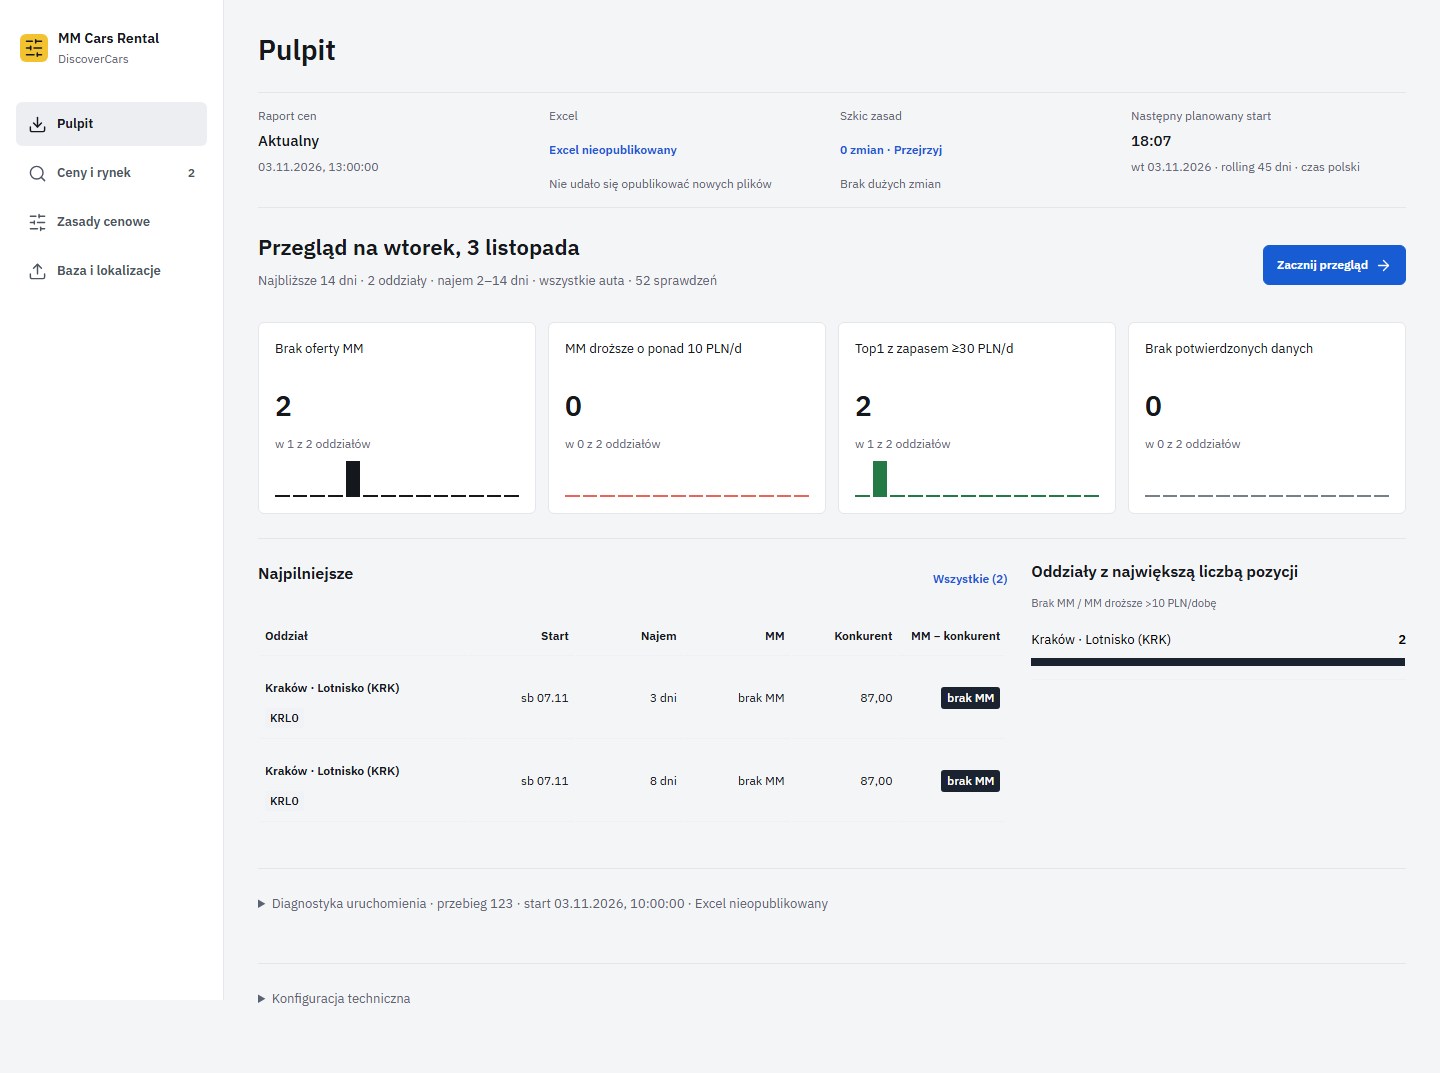
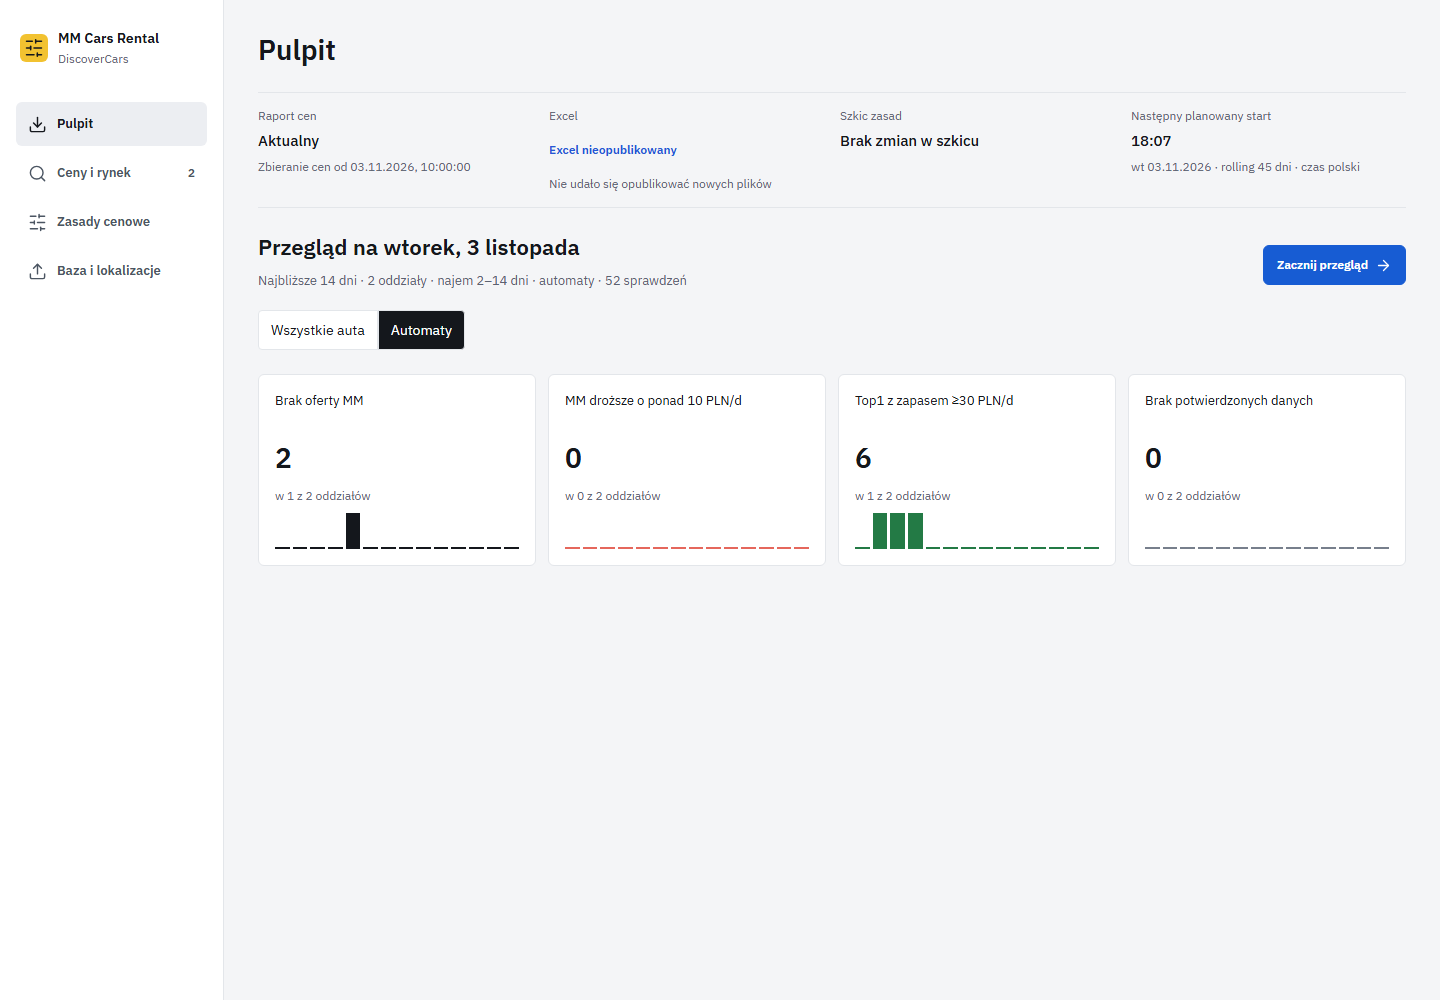
Simplify dashboard, default to automatics and label file timestamps

diff --git a/rules-panel/src/Dashboard.jsx b/rules-panel/src/Dashboard.jsx
@@ -1,41 +1,39 @@
-import React,{useMemo} from 'react';
+import React,{useMemo,useState} from 'react';
 import {ArrowRight,Download,RotateCcw} from 'lucide-react';
 import {timestamp} from './display.mjs';
 import {weekdayDate} from './visual-format.mjs';
-import {money,warsawToday} from './market-model.mjs';
-import {locationLabel,countLabel} from './operations.mjs';
+import {warsawToday} from './market-model.mjs';
+import {countLabel} from './operations.mjs';
 import {nextSchedule} from './change-review.mjs';
 import {dashboardOverview} from './dashboard-model.mjs';
-import {PriceBadge} from './PriceBadge.jsx';
+
 
 export function Dashboard({workspace,onMarket,market,changeCount=0,largeCount=0,onReview,onDiagnostics}) {
  const {report,excel,links={},executions}=workspace?.status??{};
  const {data,busy,error,load}=market;
- const today=warsawToday(),overview=useMemo(()=>dashboardOverview(data,today),[data,today]);
+ const [transmission,setTransmission]=useState('automatic');
+ const today=warsawToday(),overview=useMemo(()=>dashboardOverview(data,today,transmission),[data,today,transmission]);
  const old=report&&Date.now()-Date.parse(report.sourceStartedAt)>86400000;
  const next=nextSchedule(__SCRAPER_PLAN__),last=executions?.latestScrape;
  const latestUnknown=last&&last.runId!==report?.runId;
  const excelState=latestUnknown?'Sprawdź ostatni przebieg':report?.quality==='failure'?'Excel nieopublikowany':excel?'Excel dostępny':'Brak poprawnego Excela';
  const coverage=report?.coverage?.expected>0?(100*report.coverage.found/report.coverage.expected).toLocaleString('pl-PL',{maximumFractionDigits:1})+'% sprawdzeń':null;
- const zone=location=>data?.locations?.find(item=>item.scraper_label===location)?.zones?.[0];
  const longDay=new Intl.DateTimeFormat('pl-PL',{weekday:'long',day:'numeric',month:'long',timeZone:'Europe/Warsaw'}).format(new Date(today+'T12:00:00Z'));
  return <section className="operations-dashboard" aria-label="Podsumowanie raportu">
   <div className="dashboard-status">
-   <div><span>Raport cen</span><strong>{!report?'Brak potwierdzonego raportu':old?'Starszy niż 24 h':'Aktualny'}</strong><small>{report?timestamp(report.generatedAt):'Brak danych'}{coverage&&' · '+coverage}</small></div>
+   <div><span>Raport cen</span><strong>{!report?'Brak potwierdzonego raportu':old?'Starszy niż 24 h':'Aktualny'}</strong><small>{report?.sourceStartedAt?'Zbieranie cen od '+timestamp(report.sourceStartedAt):'Brak czasu odczytu cen'}{coverage&&' · '+coverage}</small></div>
    <div><span>Excel</span><button className="text-button" onClick={onDiagnostics}>{excelState}</button><small>{latestUnknown?'Diagnostyka ostatniego uruchomienia':report?.incident?.title??(excel?timestamp(excel.generatedAt):'Brak plików')}</small></div>
-   <div><span>Szkic zasad</span><button className="text-button" onClick={onReview}>{countLabel(changeCount,'zmiana','zmiany','zmian')} · Przejrzyj</button><small>{largeCount?countLabel(largeCount,'duża zmiana','duże zmiany','dużych zmian'):'Brak dużych zmian'}</small></div>
+   <div><span>Szkic zasad</span>{changeCount>0?<><button className="text-button" onClick={onReview}>{countLabel(changeCount,'zmiana','zmiany','zmian')} · Przejrzyj</button><small>{largeCount?countLabel(largeCount,'duża zmiana','duże zmiany','dużych zmian'):'Brak dużych zmian'}</small></>:<strong>Brak zmian w szkicu</strong>}</div>
    <div><span>Następny planowany start</span><strong>{next?next.time:'Brak harmonogramu'}</strong><small>{next?weekdayDate(next.date)+' · rolling '+next.rollingDays+' dni':''} · czas polski</small></div>
   </div>
-  <header className="dashboard-heading"><div><h2>Przegląd na {longDay}</h2><p>Najbliższe 14 dni · {data?countLabel(overview.locationCount,'oddział','oddziały','oddziałów'):'odczyt oddziałów'} · najem 2–14 dni · wszystkie auta · {data?overview.rows.length.toLocaleString('pl-PL'):'—'} sprawdzeń</p></div><button className="button primary" onClick={()=>onMarket('all')}>Zacznij przegląd<ArrowRight size={17}/></button></header>
-  <div className="review-actions">{excel&&links.import&&<a className="button" href={links.import}><Download size={17}/>Import</a>}{excel&&links.recommendations&&<a className="button" href={links.recommendations}><Download size={17}/>Rekomendacje</a>}</div>
+  <header className="dashboard-heading"><div><h2>Przegląd na {longDay}</h2><p>Najbliższe 14 dni · {data?countLabel(overview.locationCount,'oddział','oddziały','oddziałów'):'odczyt oddziałów'} · najem 2–14 dni · {transmission==='automatic'?'automaty':'wszystkie auta'} · {data?overview.rows.length.toLocaleString('pl-PL'):'—'} sprawdzeń</p></div><button className="button primary" onClick={()=>onMarket('all',null,[],transmission)}>Zacznij przegląd<ArrowRight size={17}/></button></header>
+  <div className="segmented" role="group" aria-label="Skrzynia na Pulpicie">{[['all','Wszystkie auta'],['automatic','Automaty']].map(([value,label])=><button key={value} aria-pressed={transmission===value} onClick={()=>setTransmission(value)}>{label}</button>)}</div>
+  <div className="review-actions">{excel&&links.import&&<a className="button" href={links.import}><Download size={17}/>Import · {timestamp(excel.generatedAt)}</a>}{excel&&links.recommendations&&<a className="button" href={links.recommendations}><Download size={17}/>Rekomendacje · {timestamp(excel.generatedAt)}</a>}</div>
   {excel&&report?.runId!==excel.runId&&<p className="alert">Pliki Excel pochodzą z innego uruchomienia niż raport cen. Nie przedstawiamy ich jako nowych plików tego przebiegu.</p>}
   {busy&&<p role="status">Odczytywanie raportu cenowego…</p>}
   {error&&<div role="alert" className="alert error">{error}<button className="button" onClick={load}><RotateCcw size={16}/>Ponów odczyt cen</button></div>}
-  {data&&<><div className="dashboard-metrics">{overview.metrics.map(metric=><button key={metric.reason} className="dashboard-metric" onClick={()=>onMarket(metric.reason)}><span>{metric.label}</span><strong>{metric.count.toLocaleString('pl-PL')}</strong><small>w {metric.branches} z {overview.locationCount} oddziałów</small><span className={'metric-bars metric-'+metric.reason} role="img" aria-label={metric.days.map(day=>weekdayDate(day.date,true)+': '+day.count).join('; ')}>{metric.days.map(day=><i key={day.date} style={{height:Math.max(2,36*day.count/Math.max(1,...metric.days.map(d=>d.count)))}}/>)}</span></button>)}</div>
-   <div className="dashboard-lists"><section className="dashboard-urgent"><div className="section-title"><h3>Najpilniejsze</h3><button className="text-button" onClick={()=>onMarket('urgent')}>Wszystkie ({overview.urgent.length})</button></div>
-    <table><thead><tr><th>Oddział</th><th>Start</th><th>Najem</th><th>MM</th><th>Konkurent</th><th>MM − konkurent</th></tr></thead><tbody>{overview.urgent.slice(0,6).map(row=><tr key={row.key}><th data-label="Oddział"><button className="text-button" onClick={()=>onMarket('all',row)}>{locationLabel(row.location)}</button> <span className="code">{zone(row.location)}</span></th><td data-label="Start">{weekdayDate(row.date,true)}</td><td data-label="Najem">{row.duration} dni</td><td data-label="MM">{row.mm===null?'brak MM':money(row.mm)}</td><td data-label="Konkurent">{money(row.competitor)}</td><td data-label="MM − konkurent"><PriceBadge gap={row.gap} missing={row.mm===null}/></td></tr>)}</tbody></table>
-    {!overview.urgent.length&&<p>Brak potwierdzonych braków MM i różnic ponad 10 PLN/dobę.</p>}
-   </section><section className="dashboard-branches"><h3>Oddziały z największą liczbą pozycji</h3><p className="evidence-note">Brak MM / MM droższe &gt;10 PLN/dobę</p>{overview.branches.filter(branch=>branch.missing+branch.over>0).slice(0,6).map(branch=><button key={branch.location} onClick={()=>onMarket('all',{location:branch.location})}><span>{locationLabel(branch.location)}</span><strong>{branch.missing+branch.over}</strong><span className="branch-bars" role="img" aria-label={branch.missing+' braków MM, '+branch.over+' droższych ofert'}><i className="tone-missing" style={{width:100*branch.missing/Math.max(1,...overview.branches.map(b=>b.missing+b.over))+'%'}}/><i className="tone-over-3" style={{width:100*branch.over/Math.max(1,...overview.branches.map(b=>b.missing+b.over))+'%'}}/></span></button>)}</section></div>
+  {data&&<><div className="dashboard-metrics">{overview.metrics.map(metric=><button key={metric.reason} className="dashboard-metric" onClick={()=>onMarket(metric.reason,null,[],transmission)}><span>{metric.label}</span><strong>{metric.count.toLocaleString('pl-PL')}</strong><small>w {metric.branches} z {overview.locationCount} oddziałów</small><span className={'metric-bars metric-'+metric.reason} role="img" aria-label={metric.days.map(day=>weekdayDate(day.date,true)+': '+day.count).join('; ')}>{metric.days.map(day=><i key={day.date} style={{height:Math.max(2,36*day.count/Math.max(1,...metric.days.map(d=>d.count)))}}/>)}</span></button>)}</div>
+
   </>}
  </section>;
 }

diff --git a/rules-panel/src/main.jsx b/rules-panel/src/main.jsx
@@ -123,6 +123,7 @@ const ruleSections = [
 const titles = {
   prices: "Ceny i rynek",
   results: "Pulpit",
+  diagnostics: "Diagnostyka",
   rules: "Zasady cenowe",
   groups: "Klasy pojazdów",
   preview: "Sprawdź minimum i ochronę",
@@ -132,6 +133,7 @@ const titles = {
 };
 const routeView = () => {
   const requested = new URLSearchParams(window.location.search).get('view');
+  if (requested === 'results' && new URLSearchParams(window.location.search).has('runId')) return 'diagnostics';
   return Object.hasOwn(titles, requested) ? requested : 'results';
 };
 const period = (rule) =>
@@ -387,7 +389,7 @@ function App() {
       window.scrollTo(0, 0);
     }, 0);
   }
-  function openMarket(reason='all',row=null,neighbors=[]) {setMarketRequest({id:crypto.randomUUID(),reason,row,neighbors});go('prices');}
+  function openMarket(reason='all',row=null,neighbors=[],transmission=null) {setMarketRequest({id:crypto.randomUUID(),reason,row,neighbors,transmission});go('prices');}
   async function commit(next, label, changeReason = reason, confirmations = []) {
     if (blockedDraft)
       throw new Error("Rozpocznij nowy szkic na aktualnej wersji zasad.");
@@ -855,7 +857,8 @@ function App() {
               )}
             </section>
           )}
-          {view === 'results' && <><Dashboard workspace={workspaceData} market={market} changeCount={changes.length} largeCount={requiredConfirmations(model,original).length} onReview={()=>go('review')} onDiagnostics={()=>{const details=document.querySelector('.reports-diagnostics');if(details){details.open=true;details.scrollIntoView({block:'start'});}}} onMarket={openMarket}/><ReportsView workspace={workspaceData ?? {status:{available:false},capabilities:{publish:false}}} service={service} onRefresh={refreshWorkspace} onPublished={async () => acceptWorkspace(await service.workspace())} /><details className="technical-details"><summary>Konfiguracja techniczna</summary><Sources snapshot={snapshot} model={model} remote={remote} capabilities={workspaceData?.capabilities} /></details></>}
+          {view === 'results' && <><Dashboard workspace={workspaceData} market={market} changeCount={changes.length} largeCount={requiredConfirmations(model,original).length} onReview={()=>go('review')} onDiagnostics={()=>go('diagnostics')} onMarket={openMarket}/></>}
+          {view === 'diagnostics' && <><button className="button" onClick={()=>go('results')}>Powrót do Pulpitu</button><ReportsView workspace={workspaceData ?? {status:{available:false},capabilities:{publish:false}}} service={service} onRefresh={refreshWorkspace} onPublished={async () => acceptWorkspace(await service.workspace())} /><details className="technical-details"><summary>Konfiguracja techniczna</summary><Sources snapshot={snapshot} model={model} remote={remote} capabilities={workspaceData?.capabilities} /></details></>}
           {view === 'baseline' && <><BaselineView snapshot={snapshot} service={service} enabled={Boolean(remote && workspaceData?.capabilities.publish)} onPublished={async () => acceptWorkspace(await service.workspace())} /><details className="technical-details"><summary>Powiązania lokalizacji ({locationList(original).length})</summary><table className="location-directory"><thead><tr><th>Lokalizacja rynku</th><th>Kody w Excelu</th><th>Typ</th></tr></thead><tbody>{locationList(original).map(item => <tr key={item.id}><td data-label="Lokalizacja rynku">{locationLabel(item.scraper_label)}</td><td data-label="Kody w Excelu">{item.zones.join(', ')}</td><td data-label="Typ">{item.kind === 'airport' ? 'Lotnisko' : 'Poza lotniskiem'}</td></tr>)}</tbody></table></details></>}
         </main>
       </div>

diff --git a/rules-panel/src/AttentionView.jsx b/rules-panel/src/AttentionView.jsx
@@ -9,7 +9,7 @@ import {branchOverview,locationLabel} from './operations.mjs';
 import {BandMatrix} from './BandMatrix.jsx';
 export function AttentionView({data,onSelect,request,model,workspace,service,calendar,onRules,onExcel,active=true,rulesModel=model}) {
  const [from,setFrom]=useState(warsawToday);const [to,setTo]=useState(()=>plusDays(warsawToday(),13));
- const [transmission,setTransmission]=useState('all');const [kind,setKind]=useState('all');
+ const [transmission,setTransmission]=useState(request?.transmission??'all');const [kind,setKind]=useState('all');
  const [location,setLocation]=useState(request?.row?.location??'');
  const [reason,setReason]=useState(request?.reason??'all');
  const [mode,setMode]=useState('map'),[highlight,setHighlight]=useState(request?.row?.date??'');
